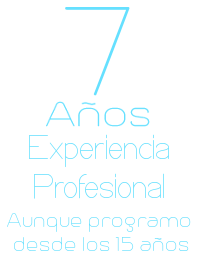
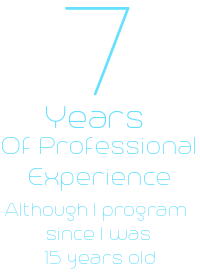
English version

Changed region(s): [[0.0, 0.0, 0.96, 0.9846], [0.87, 0.4923, 0.99, 0.5846]]

diff --git a/geracoder/css/customs.css b/geracoder/css/customs.css
@@ -183,6 +183,13 @@ a.intro-link {
     width: 100%;
 }
 
+.intro a.Language {
+      display: block;
+      margin-top: 20px;
+      font-size: 18px;
+      font-weight: bold;
+      color: #FFFFFF;
+}
 
 
 
